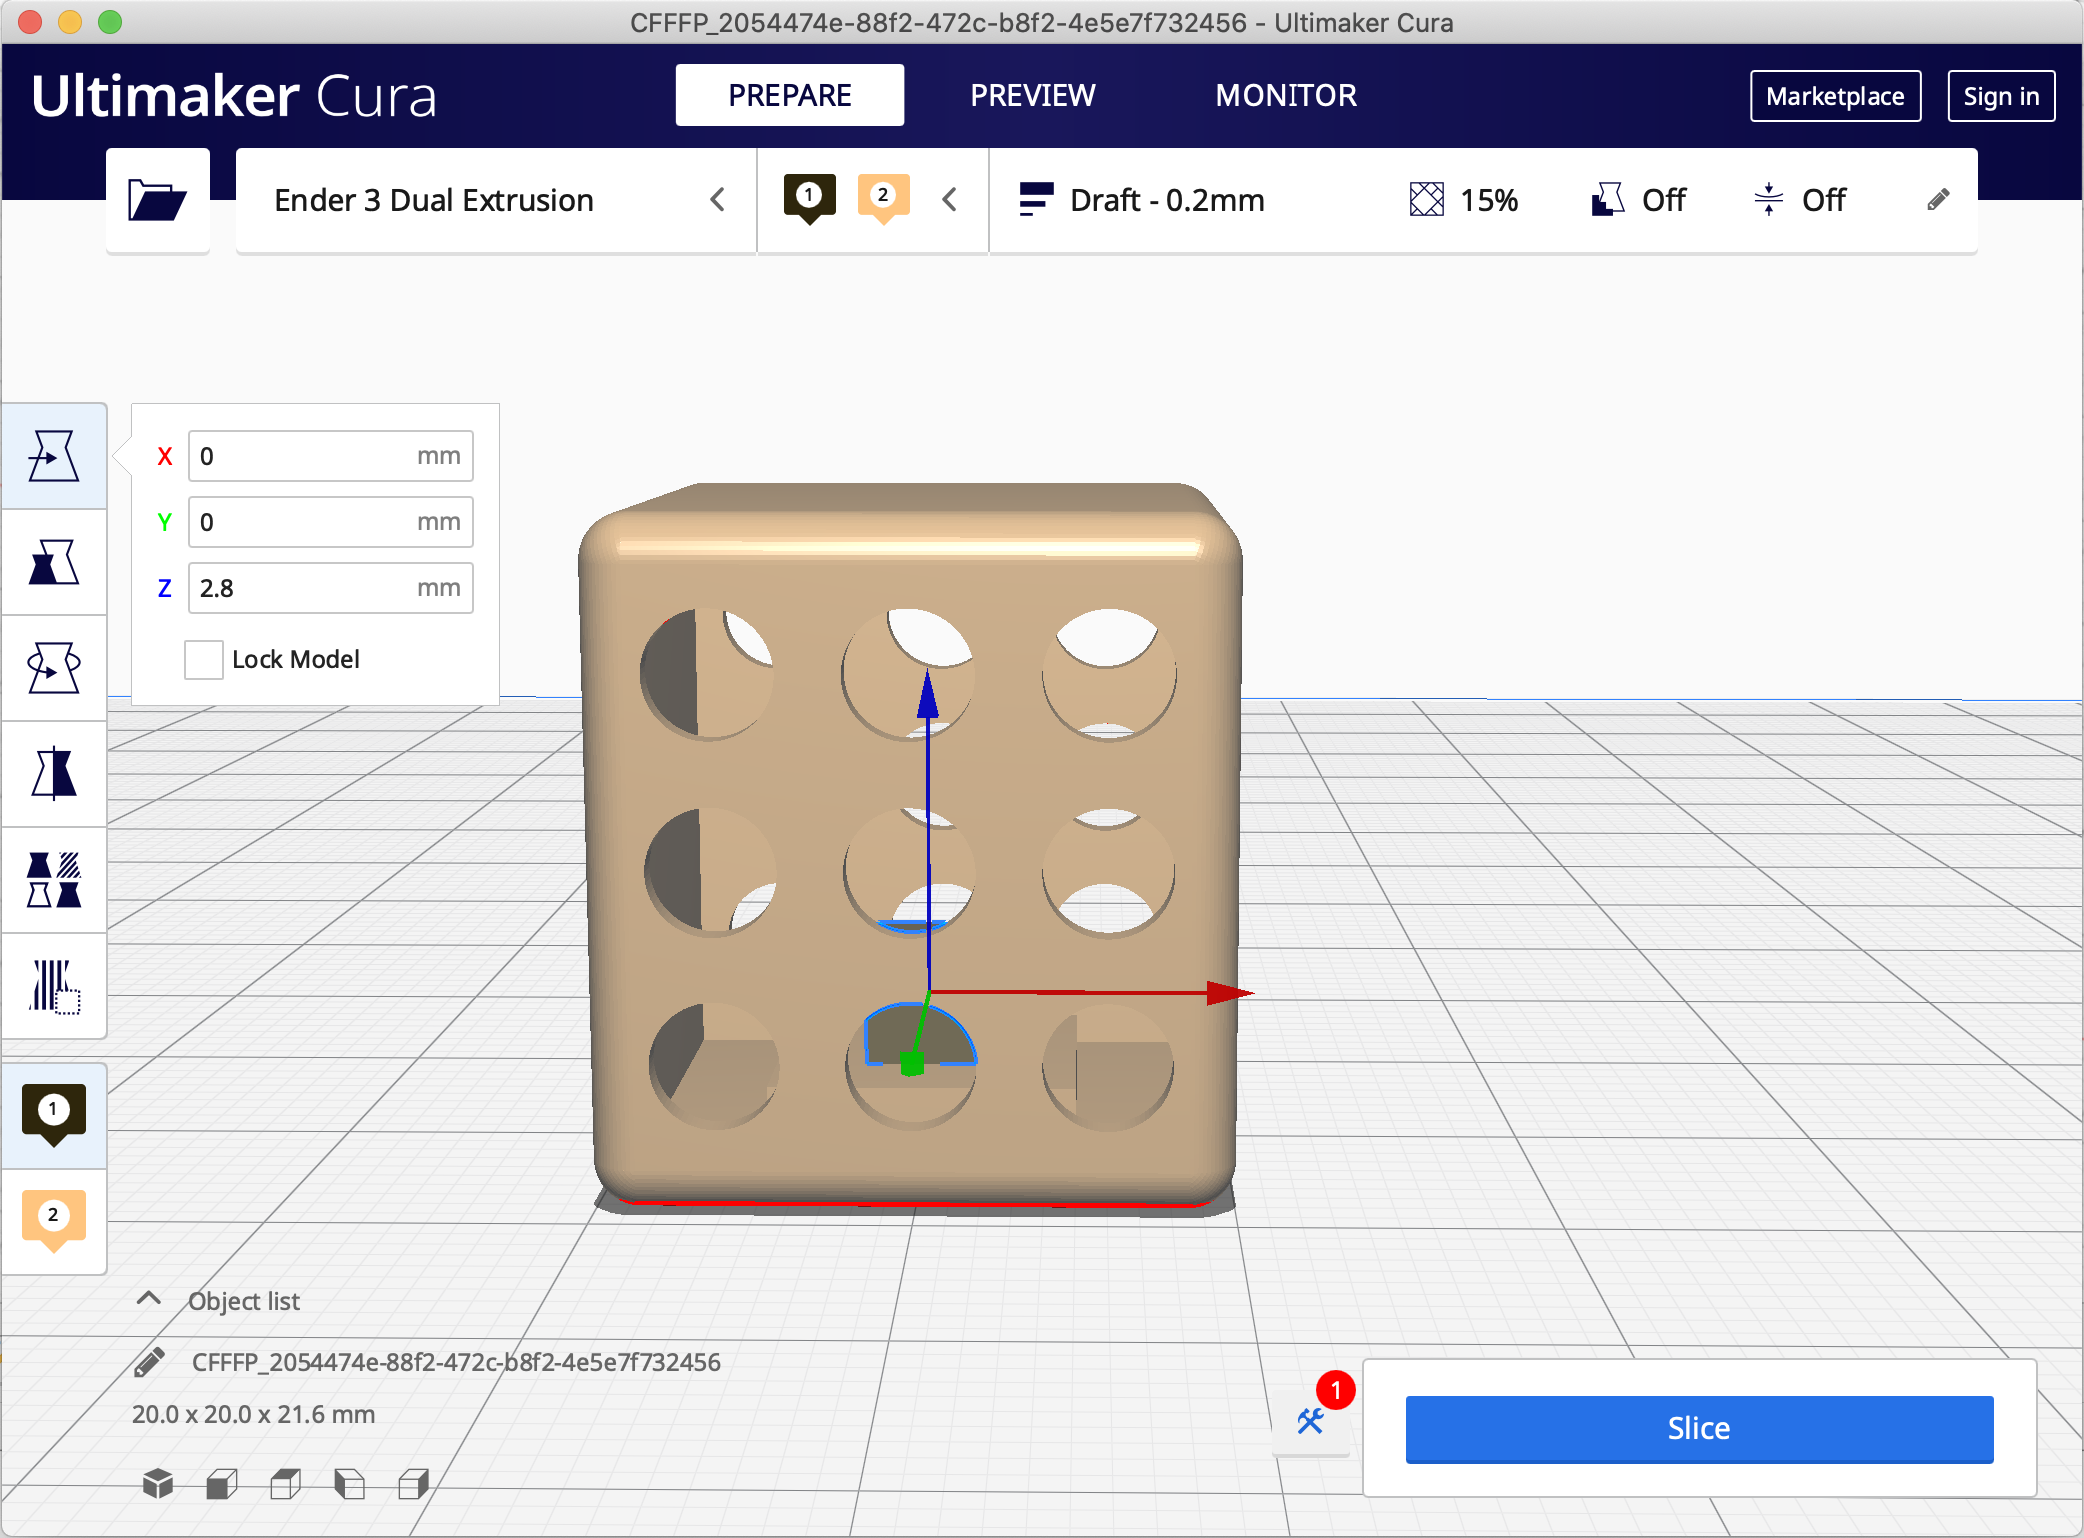
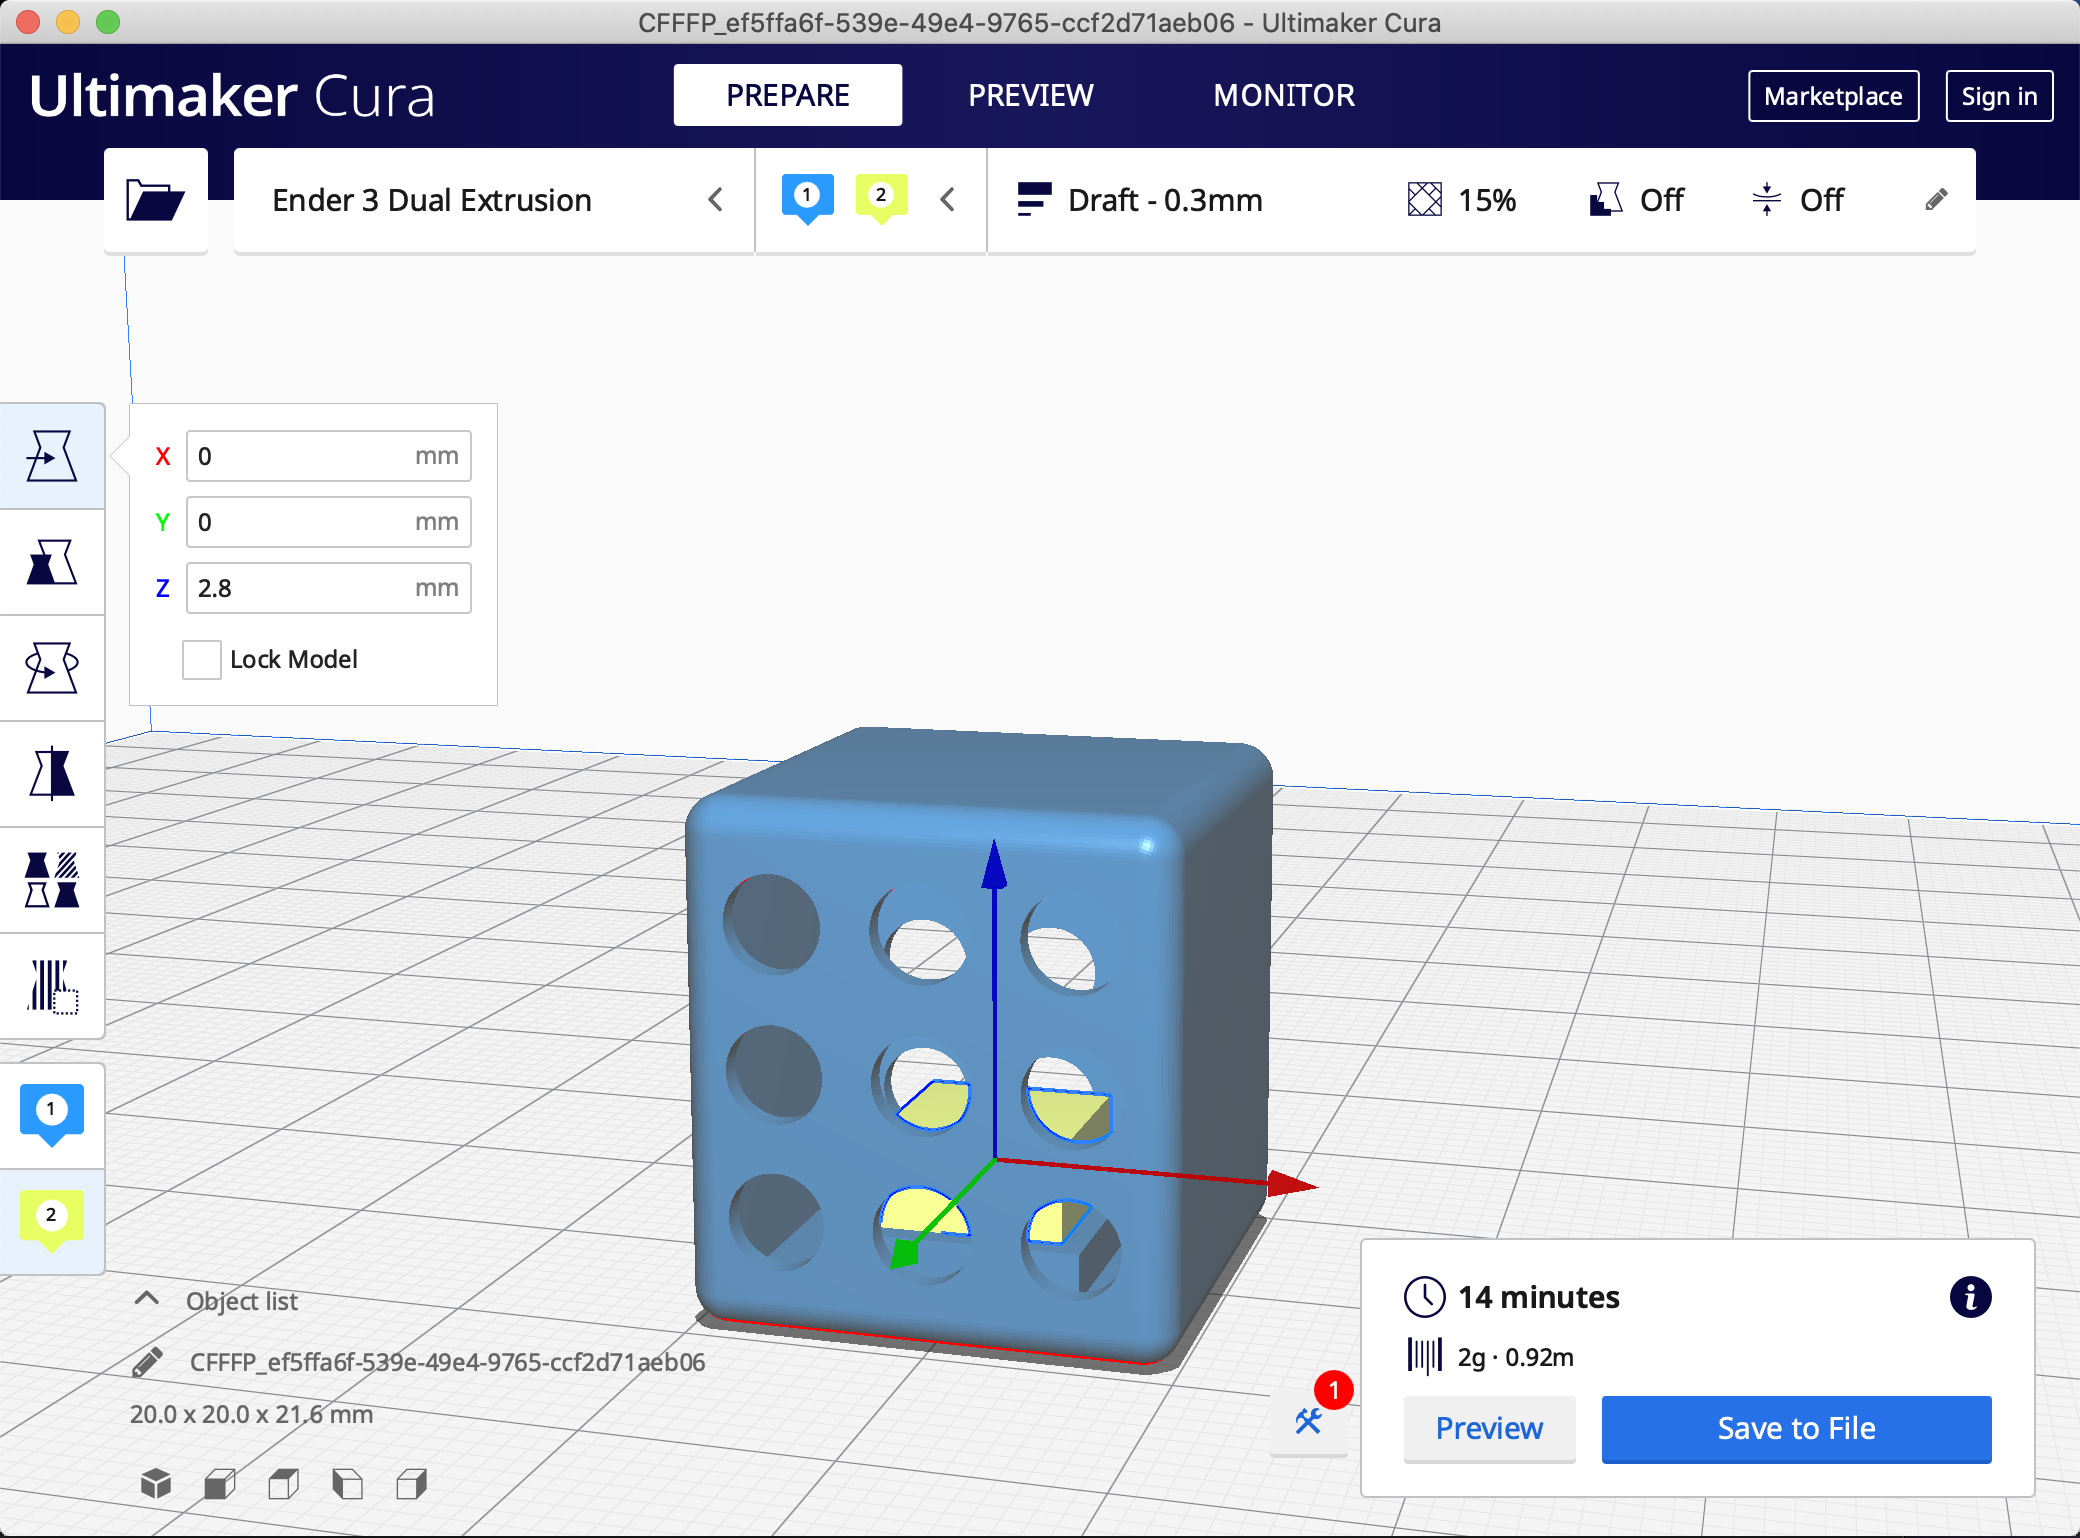
Add finished print

diff --git a/PauseAtHeightOnToolChange.py b/PauseAtHeightOnToolChange.py
@@ -305,24 +305,26 @@ class PauseAtHeightOnToolChange(Script):
                         if gcode_before:
                             halt_gcode += gcode_before + "\n"
 
-                        if unload_amount is not None:
-                            while unload_amount > 0:
-                                if unload_amount - 200 <= 0:
-                                    halt_gcode += self.putValue(G = 1, E = -unload_amount, F = retraction_speed * 60) + "\n"
+                        tmp_unload_amount = unload_amount
+                        if tmp_unload_amount is not None:
+                            while tmp_unload_amount > 0:
+                                if tmp_unload_amount - 200 <= 0:
+                                    halt_gcode += self.putValue(G = 1, E = -tmp_unload_amount, F = retraction_speed * 60) + "\n"
                                 else:
                                     halt_gcode += self.putValue(G = 1, E = -200, F = retraction_speed * 60) + "\n"
-                                unload_amount -= 200
+                                tmp_unload_amount -= 200
 
                         # Wait till the user continues printing
                         halt_gcode += pause_command + " ; Do the actual pause\n"
 
-                        if load_amount is not None:
-                            while load_amount > 0:
-                                if load_amount - 100 <= 0:
-                                    halt_gcode += self.putValue(G = 1, E = load_amount, F = retraction_speed * 60) + "\n"
+                        tmp_load_amount = load_amount
+                        if tmp_load_amount is not None:
+                            while tmp_load_amount > 0:
+                                if tmp_load_amount - 100 <= 0:
+                                    halt_gcode += self.putValue(G = 1, E = tmp_load_amount, F = retraction_speed * 60) + "\n"
                                 else:
                                     halt_gcode += self.putValue(G = 1, E = 100, F = retraction_speed * 60) + "\n"
-                                load_amount -= 100
+                                tmp_load_amount -= 100
 
                         # Wait till the user continues printing
                         halt_gcode += pause_command + " ; Do the another pause\n"

diff --git a/README.md b/README.md
@@ -2,7 +2,7 @@
 
 Most techniques for printing multicolor prints on single extruder FDM printers are based on swapping filaments on layer changes, for example by enabling [Filament Change](https://github.com/Ultimaker/Cura/blob/master/plugins/PostProcessingPlugin/scripts/FilamentChange.py) or [Pause At Height](https://github.com/Ultimaker/Cura/blob/master/plugins/PostProcessingPlugin/scripts/PauseAtHeight.py) post-processing scripts in Cura. But wouldn't it be nice if filament changes could happen mid-layer? The following guide and scripts provided in this repository show how this can be done in [Cura](https://ultimaker.com/software/ultimaker-cura).
 
-The idea is to emulate a printer with multiple extruders. However, whenever an extruder change happens, the printer is instructed to perform a filament change instead. 
+The idea is to emulate a printer with multiple extruders. Whenever an extruder change happens, the printer is instructed to perform a filament change instead. 
 
 
 ## 1. Setting up a printer with multiple virtual extruders
@@ -92,8 +92,8 @@ Import all model parts, make sure they are aligned correctly and select the righ
 ![Cura Slicing](images/cura-slicing.png)
 
 Some additional useful settings:
-	* To reduce blobs, it is recommended to `Enable Prime Tower`, however this causes a filament change to happen on every layer.
-	* _Merged Meshes Overlap_ controls how large the overlap between the different models is. A larger overlap can result in a stronger connection.
+* To reduce blobs, it is recommended to _Enable Prime Tower_, however this causes a filament change to happen on every layer.
+* _Merged Meshes Overlap_ controls how large the overlap between the different models is. A larger overlap can result in a stronger connection.
 
 Slice the model and save the G-Code file.
 
@@ -106,5 +106,6 @@ If the _Filament Change On Tool Change_ script was used for slicing, the printer
 
 If the _Pause At Height On Tool Change_ scripts was used for slicing, the filament change needs to be performed manually and once completed _Resume_ needs to be triggered.
 
-![Cura Slicing](images/finished-print.png)
+![Finished print](images/finished-print.png)
+*Finished print: cube (white) within a cube (blue)*
 
